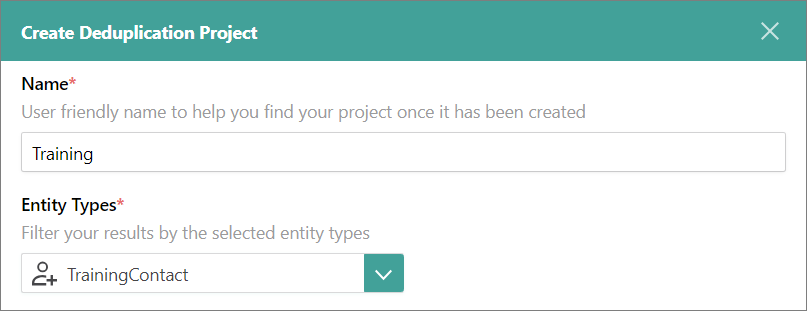
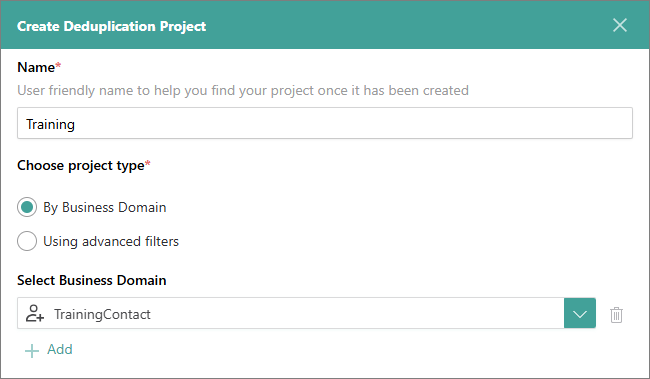
Terminology change in progress

diff --git a/docs/010-getting-started/040-deduplication.md b/docs/010-getting-started/040-deduplication.md
@@ -31,29 +31,23 @@ As a first step, you need to create a deduplication project that allows you to c
 
 1. On the navigation pane, go to **Management**. Then, select **Deduplication**.
 
-    ![create-dedup-project-1.png](../../assets/images/getting-started/deduplication/create-dedup-project-1.png)
-
 1. Select **Create Deduplication Project**.
 
 1. On the **Create Deduplication Project** pane, do the following:
 
     1. Enter the name of the deduplication project.
 
-    1. Select the entity type that you want to use as a filter for all records.
+    1. Select the business domain that you want to use as a filter for all records.
 
         ![dedup-2.png](../../assets/images/getting-started/deduplication/dedup-2.png)
 
     1. In the lower-right corner, select **Create**.
 
-    You created the deduplication project.
-
-    ![dedup-3.png](../../assets/images/getting-started/deduplication/dedup-3.png)
-    
-    Now, you can proceed to define the rules for checking duplicates within the selected entity type.
+    You created the deduplication project. Now, you can proceed to define the rules for checking duplicates within the selected business domain.
 
 ## Configure matching rule
 
-When creating a matching rule, you need to specify certain criteria. CluedIn uses these criteria to check for matching values among records belonging to the selected entity type.
+When creating a matching rule, you need to specify certain criteria. CluedIn uses these criteria to check for matching values among records belonging to the selected business domain.
 
 **To configure a matching rule**
 
@@ -86,8 +80,6 @@ When creating a matching rule, you need to specify certain criteria. CluedIn use
 1. After you have added the needed matching criteria, in the lower-right corner of the **Preview** tab, select **Add Rule**.
 
     The status of the deduplication project becomes **Ready to generate**.
-
-    ![dedup-7.png](../../assets/images/getting-started/deduplication/dedup-7.png)
 
 1. In the upper-right corner, select **Generate Results**. Then, confirm that you want to generate the results for the deduplication project.
 
@@ -130,19 +122,14 @@ The process of fixing duplicates involves reviewing the values from duplicate re
 
     1. Review the group that will be merged and select **Next**.
 
-    1. Select an option to handle the data merging process if more recent data becomes available for the entity. Then, select **Confirm**.
+    1. Select an option to handle the data merging process if more recent data becomes available for the golden record. Then, select **Confirm**.
 
         ![dedup-12.png](../../assets/images/getting-started/deduplication/dedup-12.png)
 
-        {:.important}
-        The process of merging data may take some time.
-
-        After the process is completed, you will receive a notification. As a result, the duplicate records have been merged into one record.
-
-    You fixed the duplicate records.
+    The process of merging data may take some time. After the process is completed, you will receive a notification. As a result, the duplicate records have been merged into one record.
 
 {:.important}
-All changes to the data records in CluedIn are tracked. You can search for the needed data record and on the **Topology** pane, you can view the visual representation of the records that were merged through the deduplication process.
+All changes to golden records in CluedIn are tracked. You can search for the needed golden record and on the **Topology** pane, you can view the visual representation of the records that were merged through the deduplication process.
 
 ## Results & next steps
 

diff --git a/docs/010-getting-started/020-data-ingestion.md b/docs/010-getting-started/020-data-ingestion.md
@@ -17,7 +17,7 @@ Ingesting data to CluedIn involves three basic steps: importing, mapping, and pr
 <iframe src="https://player.vimeo.com/video/843840937?badge=0&amp;autopause=0&amp;player_id=0&amp;app_id=58479" frameborder="0" allow="autoplay; fullscreen; picture-in-picture" allowfullscreen title="Getting started with data ingestion in CluedIn"></iframe>
 </div>
 
-In this guide, you will learn how to import a file into CluedIn, create a mapping, process the data, and perform data searches.
+In this guide, you will learn how to import a file into CluedIn, create a mapping, process the data, and search for golden records.
 
 **File for practice:** <a href="../../../assets/other/training-data.csv" download>training-data.csv</a>
 
@@ -29,13 +29,9 @@ A CSV (comma-separated values) file format allows data to be saved in a tabular 
 
 **To import a file**
 
-1. On the home page, in **Golden Records**, select **Add Record**.
+1. On the navigation pane, go to **Ingestion**, and then in the **Files** section, select **Add**.
 
-    ![golden-records-add-records.png](../../assets/images/getting-started/data-ingestion/golden-records-add-records.png)
-
-1. In **Upload Data From File**, select **Add**.
-
-    ![upload-data-from-file-add.png](../../assets/images/getting-started/data-ingestion/upload-data-from-file-add.png)
+    ![files-add.png](../../assets/images/getting-started/data-ingestion/files-add.png)
 
 1. In the **Add Files** section, add the file. You may drag the file or select the file from the computer.
 
@@ -53,9 +49,7 @@ After you uploaded the file, you can view the data from the file as a table with
 
 **To view imported data**
 
-1. On the home page, in the **Integrations** section, select **View All Data Sources**.
-
-    Alternatively, on the navigation pane, go to **Integrations** > **Data Sources**.
+1. On the navigation pane, go to **Ingestion** > **Sources**.
 
 1. Find and expand the group that you created in the previous procedure.
 
